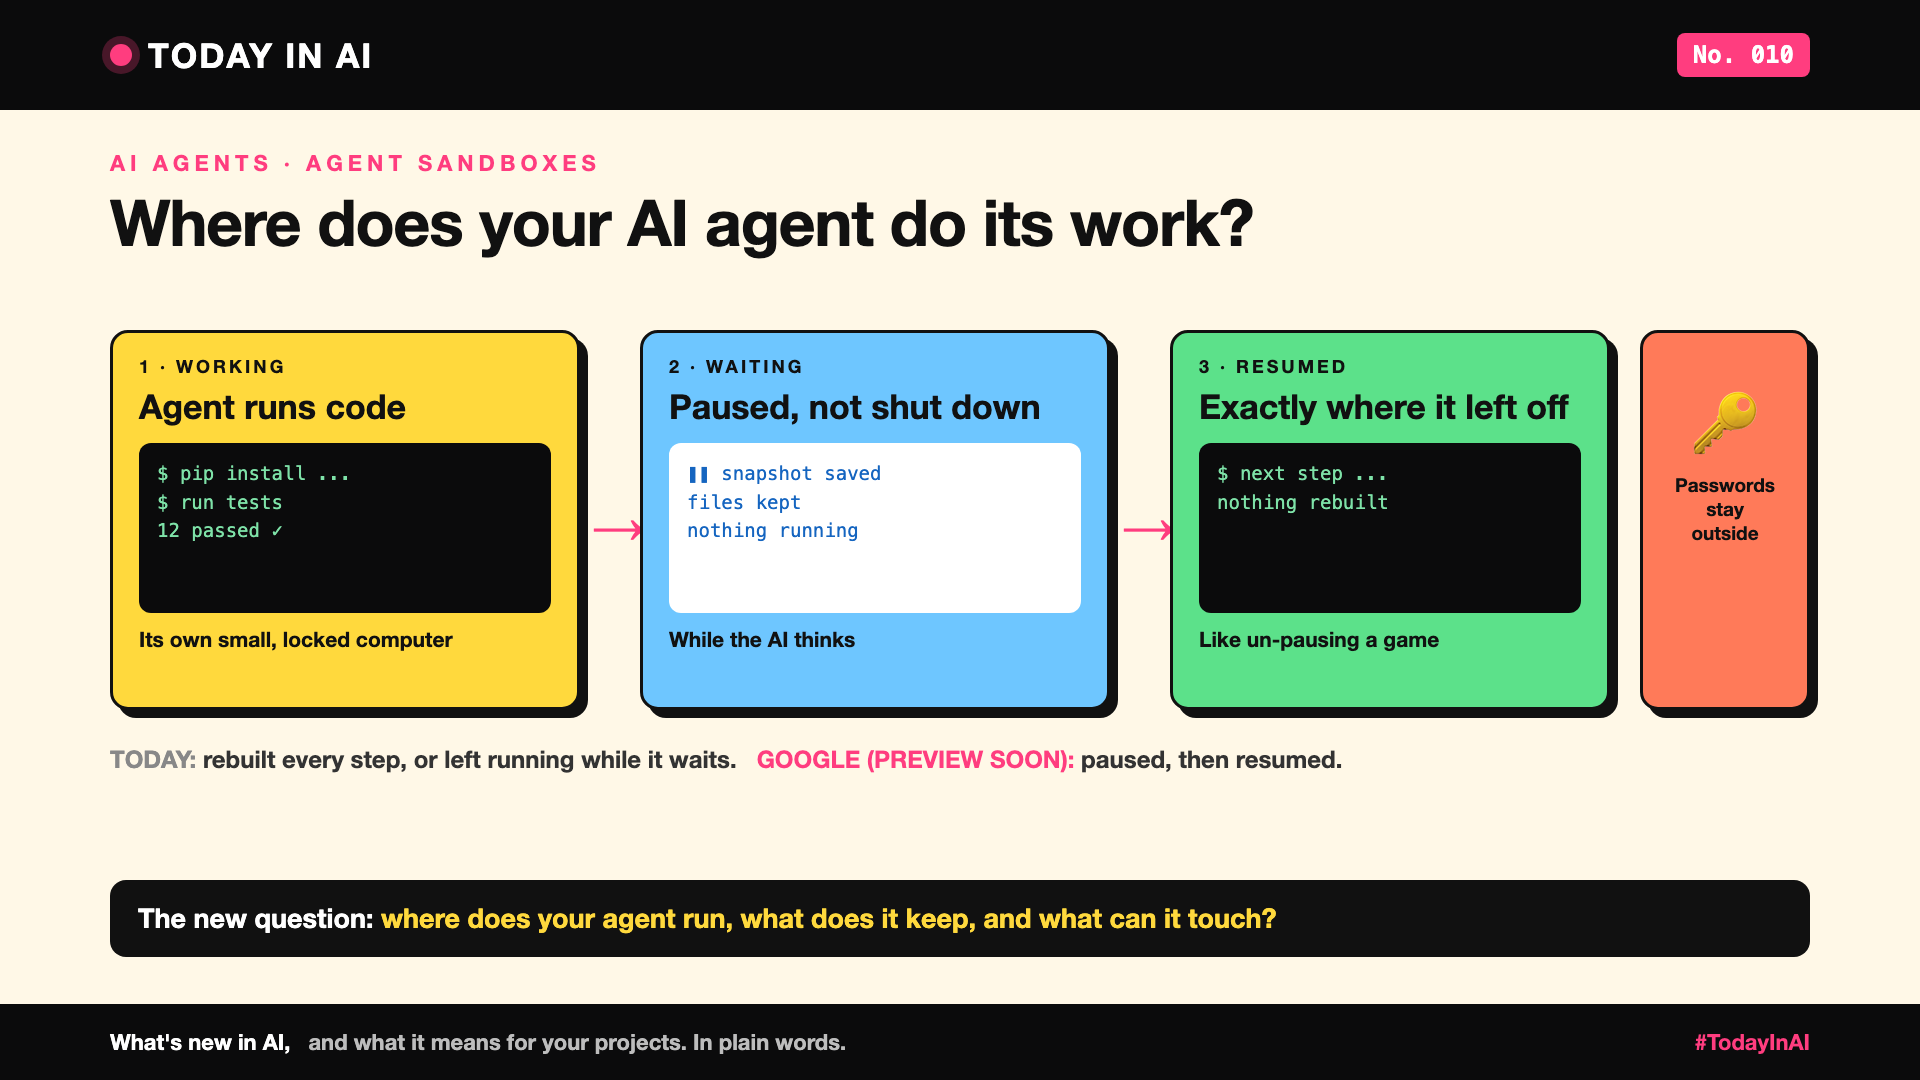
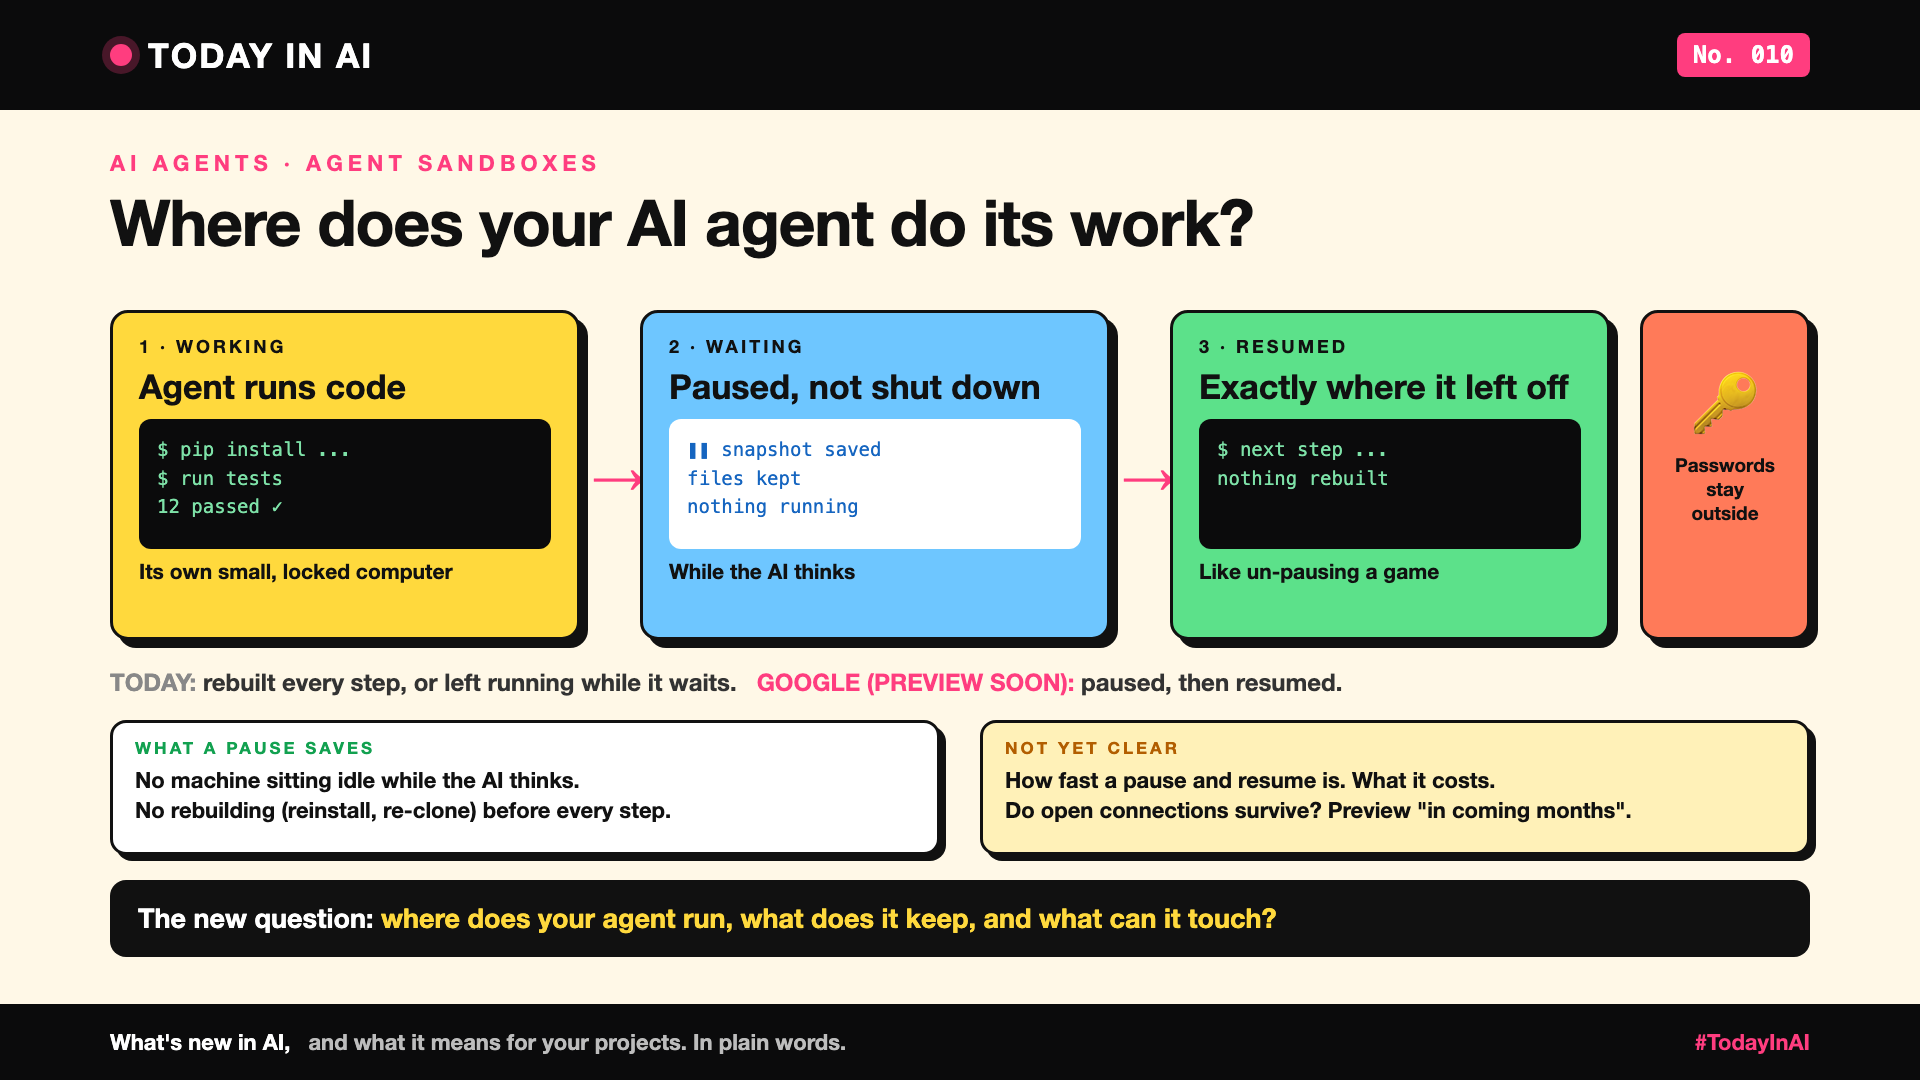
Today in AI 010: what a pause saves, what's not yet clear (article and cover)

Changed region(s): [[0.0312, 0.275, 0.9688, 0.7944], [0.875, 0.3361, 0.9375, 0.5194], [0.9375, 0.3056, 0.9688, 0.3361]]

diff --git a/20-today-in-ai/010-agent-sandboxes.md b/20-today-in-ai/010-agent-sandboxes.md
@@ -10,7 +10,9 @@
 
 On 22 October 2026, Google Cloud announced **Agent Compute Engine**. [1]
 
-A coding agent writes code, runs tests, then waits for the AI's next decision. Google gives it a tiny virtual computer, a **microVM**, that pauses while it waits and resumes from a snapshot. [1]
+A coding agent writes code, runs tests, then waits for the AI's next decision. Google gives it a tiny virtual computer, a **microVM**, that pauses while it waits. [1]
+
+Pausing is like hibernating a laptop: memory, open programs and files are saved, the computer is freed for others, and it wakes up exactly where it left off. It saves two things: idle machines, and rebuilding before every step.
 
 ## How it's done today
 
@@ -33,12 +35,12 @@ So the idea isn't new. The packaging and scale are.
 
 - **Teams building coding and data agents:** long tasks resume in place instead of starting over.
 - **Security teams:** passwords out of reach, one ID per agent, every outbound call checked.
-- **Platform and finance teams running thousands of agents:** fewer machines sitting idle.
+- **Teams running thousands of agents:** fewer idle machines.
 - **Not everyone:** an agent that only calls a few APIs doesn't need its own computer.
 
 ## The catch
 
-Not available yet: preview "in the coming months" [1]. No numbers for this product, and the benefits are Google's claims, not yet tested by customers.
+Not available yet: preview "in the coming months" [1]. Still unclear: how fast a pause and resume is, what it costs, and whether open connections survive a pause. The benefits are Google's claims, not yet tested by customers.
 
 ## One thing to do this week
 
@@ -48,7 +50,7 @@ Not available yet: preview "in the coming months" [1]. No numbers for this produ
 ## Words to know
 
 - **Sandbox:** a walled-off space where an agent runs things safely.
-- **Snapshot:** a saved copy of a computer's exact state.
+- **Snapshot:** the saved copy made when it pauses.
 
 ## References and credits
 
